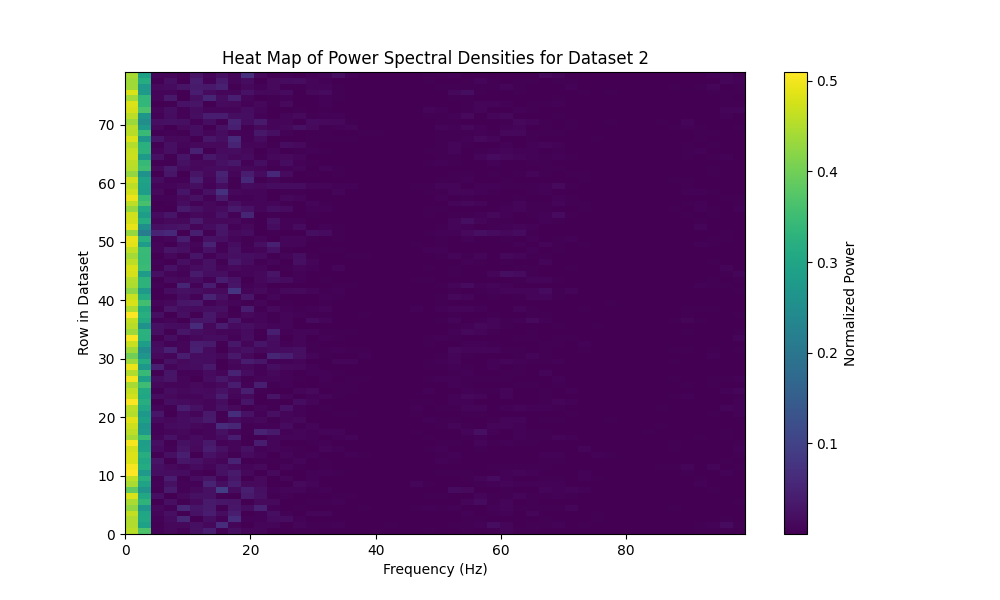
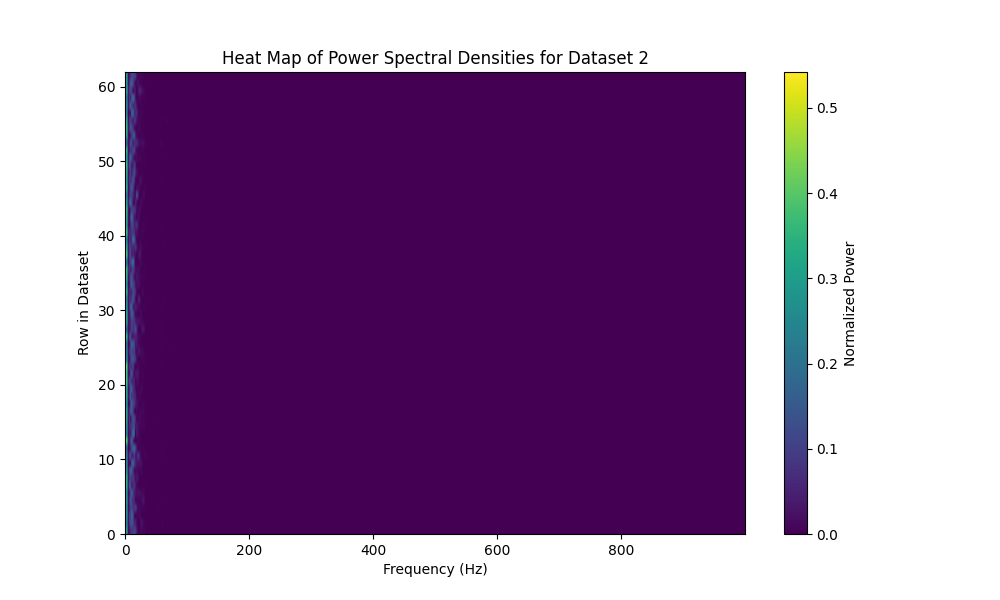
analysis codes added

diff --git a/plot_psd_comparison.m b/plot_psd_comparison.m
@@ -1,0 +1,181 @@
+function plot_psd_comparison()
+
+
+    % Sampling information
+    step_size_ms = 0.1; % step size in milliseconds
+    Fs = 1000 / step_size_ms; % Sampling frequency in Hz
+
+
+    csv_file_path_1 = '/Users/dracoxu/Research/data/all_raw_activities_differentp.csv';
+    csv_file_path_2 = '/Users/dracoxu/Research/data/all_raw_activities_samep.csv';
+
+    % Load data
+    data1 = load_and_process_csv(csv_file_path_1);
+    data2 = load_and_process_csv(csv_file_path_2);
+
+    % Denoise and Detrend Data
+    data1 = preprocess_data(data1);
+    data2 = preprocess_data(data2);
+
+    k = 2300;
+    data1 = data1(:, k+200:end);
+    data2 = data2(:, k+200:end);
+
+
+
+
+    % Intermediate Steps Visualization (After Preprocessing)
+    figure;
+    subplot(2, 1, 1);
+    plot(mean(data1, 1), 'b', 'LineWidth', 2);
+    title('Example Signal After Preprocessing for one trial in Dataset 1');
+    xlabel('Sample Number');
+    ylabel('Amplitude');
+
+    subplot(2, 1, 2);
+    plot(mean(data2, 1), 'r', 'LineWidth', 2);
+    title('Example Signal After Preprocessing for one trial in Dataset 2');
+    xlabel('Sample Number');
+    ylabel('Amplitude');
+
+    % Compute average PSD
+    [psd1, freq1] = average_psd(data1, Fs);
+    [psd2, freq2] = average_psd(data2, Fs);
+    
+
+
+
+        % Plot the results of PSDs
+    figure;
+    plot(freq1(1:25), psd1(1:25), 'b', 'LineWidth', 2);
+    hold on;
+    plot(freq2(1:25), psd2(1:25), 'r', 'LineWidth', 2);
+    title('Unnormalized Average Power Spectral Density');
+    xlabel('Frequency (Hz)');
+    ylabel('Power');
+    legend('Diff P', 'Same P');
+    grid on;
+    hold off;
+
+
+    z = 3
+    psd1= psd1(z:end);
+    psd2= psd2(z:end);
+    freq1 =freq1(z:end);
+    freq2 =freq2(z:end);
+
+    % Plot the results of PSDs with spline interpolation for smoothing
+figure;
+f_interp = linspace(min(freq1(1:25)), max(freq1(1:25)), 500);  % increase the number of points in the frequency range for a smooth plot
+psd1_interp = spline(freq1(1:25), psd1(1:25), f_interp);  % spline interpolation
+psd2_interp = spline(freq2(1:25), psd2(1:25), f_interp);  % spline interpolation
+
+
+f_min = 5;  % Set the minimum frequency for interpolation
+f_max = max(freq1(1:25));  % Maximum frequency based on your data
+f_interp = linspace(f_min, f_max, 1000);  % Create linear space starting from 5 Hz
+
+% Interpolate PSDs using the new frequency range starting from 5 Hz
+psd1_interp = spline(freq1(1:25), psd1(1:25), f_interp);  % Spline interpolation for dataset 1
+psd2_interp = spline(freq2(1:25), psd2(1:25), f_interp);  % Spline interpolation for dataset 2
+
+    psd1_interp = psd1_interp / max(psd1_interp);
+    psd2_interp = psd2_interp / max(psd2_interp);
+
+
+
+
+plot(f_interp, psd1_interp, 'b', 'LineWidth', 2);
+hold on;
+plot(f_interp, psd2_interp, 'r', 'LineWidth', 2);
+title('normalized Average Power Spectral Density');
+xlabel('Frequency (Hz)');
+xlim([5 35]); % Set x-axis limits starting from 5 Hz
+ylabel('Power');
+legend('Diff P', 'Same P');
+grid on;
+hold off;
+
+
+
+
+
+
+
+
+
+    % Normalize the PSDs so that their max is 1
+    psd1 = psd1 / max(psd1);
+    psd2 = psd2 / max(psd2);
+
+    % Plot the results of PSDs
+    figure;
+    plot(freq1(1:25), psd1(1:25), 'b', 'LineWidth', 2);
+    hold on;
+    plot(freq2(1:25), psd2(1:25), 'r', 'LineWidth', 2);
+    title('Normalized Average Power Spectral Density');
+    xlabel('Frequency (Hz)');
+    ylabel('Power');
+    legend('Diff P', 'Same P');
+    grid on;
+    hold off;
+
+end
+
+function matrix = load_and_process_csv(csv_file_path)
+    % Load CSV file
+    matrix = readmatrix(csv_file_path);
+end
+
+function data = preprocess_data(data)
+    % Apply Savitzky-Golay filter to denoise data
+    for i = 1:size(data, 1)
+        data(i, :) = sgolayfilt(data(i, :), 1, 55);  % first-order polynomial, window size of 49
+    end
+    
+     %Center data by subtracting the mean of each trial
+    %data = data - mean(data, 2);
+    %for i = 1:size(data,1)
+    %    data(i,:) = detrend(data(1,:));
+    %end
+
+end
+
+function data = preprocess_data_with_detrend(data)
+    % Apply Savitzky-Golay filter to denoise data
+    for i = 1:size(data, 1)
+        data(i, :) = sgolayfilt(data(i, :), 1, 209);  % first-order polynomial, window size of 49
+    end
+    
+     
+    
+    for i = 1:size(data,1)
+        data(i,:) = detrend(data(1,:));
+    end
+
+end
+
+function [avg_psd, freq] = average_psd(data, Fs)
+    % Specifying a larger window size to increase frequency resolution
+    window_size = 0.35 * length(data(1, :));  % Using the full data length of the first trial
+    window = hamming(window_size);  % Using a Hamming window to reduce spectral leakage
+
+    [~, f] = pwelch(data(1, :), window, [], [], Fs);
+    psds = zeros(size(data, 1), length(f));
+
+    for i = 1:size(data, 1)
+        [psd, ~] = pwelch(data(i, :), window, [], [], Fs);
+        psds(i, :) = psd.';  % Transpose psd to match dimensions
+    end
+
+    avg_psd = mean(psds, 1);
+    freq = f;
+end
+
+
+function matrix = load_and_expand_csv(csv_file_path)
+    % Load CSV file
+    original_matrix = readmatrix(csv_file_path);
+    % Expand each column 10 times
+    matrix = repelem(original_matrix, 1, 10);
+end

diff --git a/pptry.py b/pptry.py
@@ -6,13 +6,13 @@ import pandas as pd
 def load_and_process_csv(csv_file_path):
     df = pd.read_csv(csv_file_path, header=None)
     matrix = np.matrix(df.values)
-    matrix = matrix[:, 5:-1]
+    matrix = matrix[:, :]
     return matrix
 
-def compute_psd(matrix, fs=1/0.005):
+def compute_psd(matrix, fs=2000):
     nperseg = matrix.shape[1]
     psds = []
-
+    print(matrix.shape)
     for row in matrix:
         frequencies, power_density = welch(row, fs=fs, nperseg=nperseg, scaling='density')
         normalized_power_density = power_density / np.sum(power_density)
@@ -29,12 +29,12 @@ def compute_psd(matrix, fs=1/0.005):
     
     psd_mean = np.mean(psds, axis=0)
     psd_std = np.std(psds, axis=0)
-    psd_mean = psd_mean/np.max(psd_mean)
-    psd_std = psd_std/np.max(psd_mean)
+    #psd_mean = psd_mean/np.max(psd_mean)
+    #psd_std = psd_std/np.max(psd_mean)
 
     return frequencies, psd_mean, psd_std, psds
-csv_file_path_1 = '/gpfs/data/doiron-lab/draco/results_nn/exp_8905776/all_raw_activities.csv'
-csv_file_path_2 = '/gpfs/data/doiron-lab/draco/results_nn/exp_8905827/all_raw_activities.csv'
+csv_file_path_1 = '/gpfs/data/doiron-lab/draco/results_nn/exp_8957510/all_raw_activities.csv'
+csv_file_path_2 = '/gpfs/data/doiron-lab/draco/results_nn/exp_8957562/all_raw_activities.csv'
 
 # Load, process, and compute PSD for both datasets
 matrix_1 = load_and_process_csv(csv_file_path_1)
